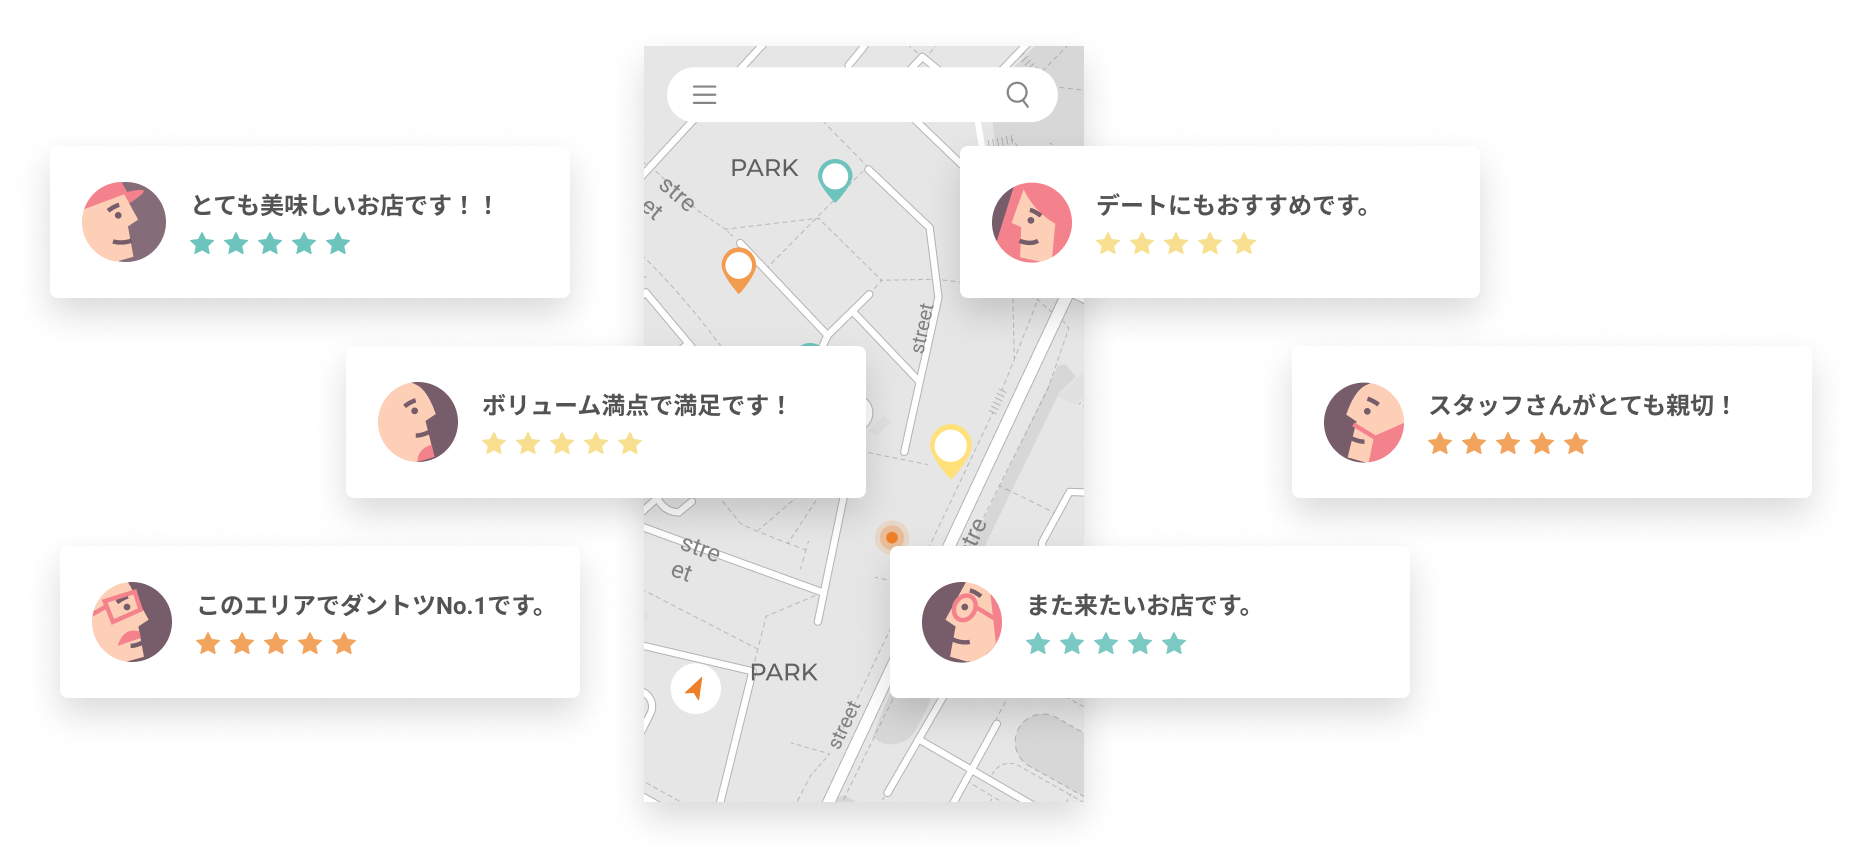
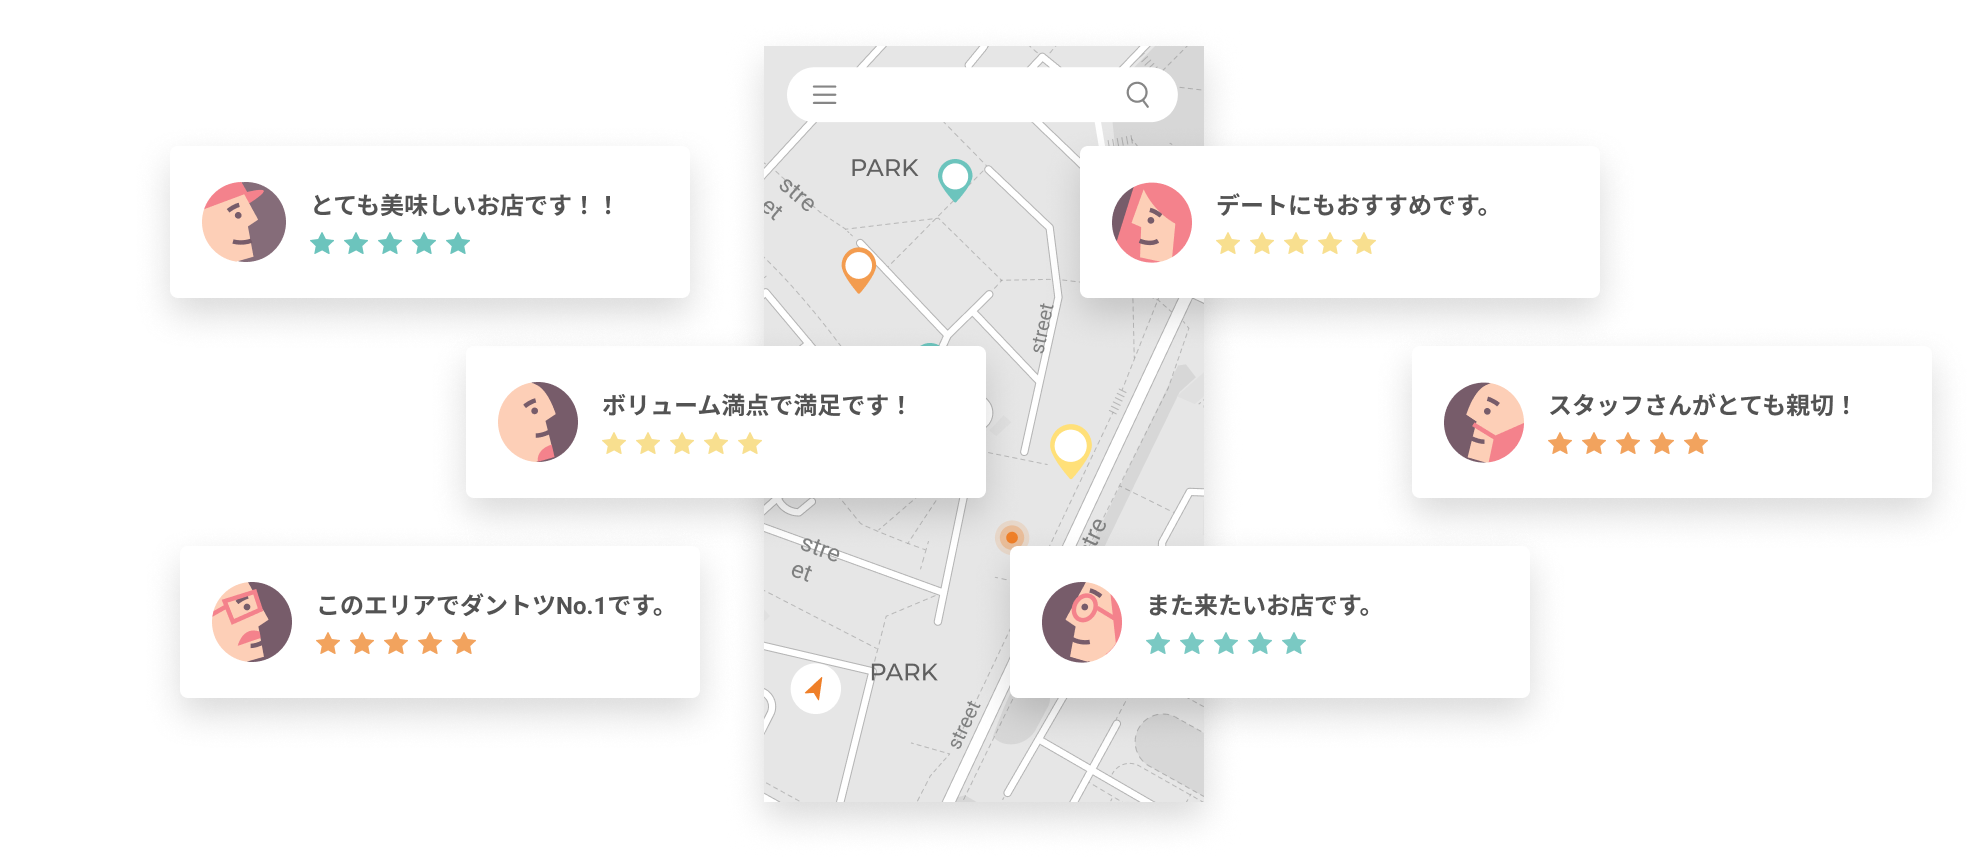
“SMBのtopカバー画像の上マージン調整”

diff --git a/index.html b/index.html
@@ -45,7 +45,7 @@
                         <h1>Googleマップでの<br>集客をもっとカンタンに。</h1>
                         <div><a class="btn btn-top" href="#">口コミコムを申し込む</a></div>
                         <p><a class="text-link" href="enterprise.html">20店舗以上の多店舗経営をされているチェーン店様はこちら</a></p>
-                        <img class="cover" src="images/smb-top.png" alt="口コミコムでGoogleマップでの集客をもっとカンタンに。">
+                        <div class="cover"><img src="images/smb-top.png" alt="口コミコムでGoogleマップでの集客をもっとカンタンに。"></div>
                     </div>
                     <div class="gray withArrow">
                         <div class="container item" data-aos="fade-up">

diff --git a/css/kComstyle.css b/css/kComstyle.css
@@ -202,7 +202,11 @@ h4 {
 	text-align: center;
 }
 .smb-top .cover {
-	width: 90%;
+	margin: 40px auto 0 auto;
+	max-width: 1160px;
+}
+.smb-top .cover img {
+	width: 100%;
 }
 
 
